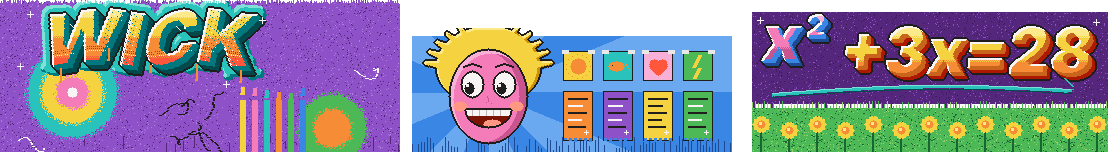
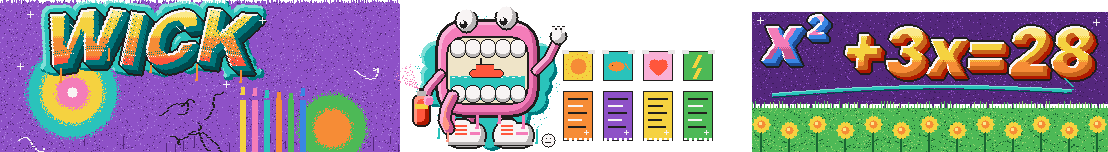
Replace the Hackney Wick face mural with the Gob
An original character painted straight onto the brick in place of the
face on the blue panel: a big pink grinning gob on legs, with bulging
eyes, a lolling tongue, white high-tops, a waving glove and a spray can
mid-spray, on a teal splash. Inside its mouth, between the teeth, a tiny
canal with a narrowboat. The paste-up posters stay beside it.

The old blue panel now only draws while the image is loading, and the
mural's description and hotspot match the new piece.

Claude-Session: https://claude.ai/code/session_0125GjHogscKtWgKKYudVCew

diff --git a/game/src/art/scenes.ts b/game/src/art/scenes.ts
@@ -269,9 +269,13 @@ export const scenes: Record<string, (g: Kit, v: Vis) => void> = {
     for (let k = 0; k < 6; k++) R(120 + k * 6, 200, 3, 26, ['yel', 'pink', 'teal', 'org', 'grn', 'blu'][k]);
     const piece = (s: string, x: number, y: number, k: number, fill: string, sh: string) => { T(s, x + 4, y + 4, sh, k); ([[-2, 0], [2, 0], [0, -2], [0, 2]] as [number, number][]).forEach(([dx, dy]) => T(s, x + dx, y + dy, 'ink', k)); T(s, x, y, fill, k); };
     piece('WICK', 30, 158, 5, 'yel', 'teal7'); for (let i = 0; i < 16; i++) px(32 + i * 5, 160, 'bg');
-    R(206, 168, 160, 58, 'blu'); for (let x = 206; x < 366; x += 3) if (rnd() > .3) R(x, 226, 1, -(rnd() * 8), 'blu8');
+    // The high-detail mural is painted straight onto the brick, so the old blue panel only
+    // draws without it (the random calls still run, so the rest of the scene stays put).
+    const old = !loaded(murals);
+    if (old) R(206, 168, 160, 58, 'blu');
+    for (let x = 206; x < 366; x += 3) if (rnd() > .3) { const h = -(rnd() * 8); if (old) R(x, 226, 1, h, 'blu8'); }
     const face = () => { E(244, 196, 18, 22, 'pink'); R(234, 190, 6, 4, 'ink'); R(250, 190, 6, 4, 'ink'); R(236, 191, 2, 2, 'bg'); R(252, 191, 2, 2, 'bg'); R(238, 206, 14, 3, 'a700'); R(226, 172, 36, 6, 'yel'); R(230, 166, 28, 6, 'yel'); };
-    for (let k = 0; k < 4; k++) { R(282 + k * 20, 176, 14, 14, ['grn', 'yel', 'teal', 'pink'][k]); R(282 + k * 20, 196, 14, 24, ['org', 'pur', 'yel', 'grn'][k]); }
+    if (old) for (let k = 0; k < 4; k++) { R(282 + k * 20, 176, 14, 14, ['grn', 'yel', 'teal', 'pink'][k]); R(282 + k * 20, 196, 14, 24, ['org', 'pur', 'yel', 'grn'][k]); }
     // Jasper's tag: x² + 3x = 28 (roots −7 and 4 open his padlock)
     R(376, 156, 178, 46, 'pur8'); for (let x = 376; x < 554; x += 4) if (rnd() > .4) R(x, 202, 1, rnd() * 10, 'pur8');
     piece('X', 386, 168, 5, 'pink', 'blu'); piece('2', 406, 162, 3, 'pink', 'blu'); piece('+3X=28', 420, 168, 5, 'yel', 'org');

diff --git a/game/src/content/scenes/hackneywick.ts b/game/src/content/scenes/hackneywick.ts
@@ -100,7 +100,7 @@ export const hackneywick: SceneDef = {
     { id: 'orbit', name: 'the Orbit', rect: [282, 22, 40, 120], walkTo: null, look: 'The ArcelorMittal Orbit: a big red tangle with a slide down the middle.' },
     { id: 'wick', name: 'WICK piece', rect: [16, 154, 122, 38], walkTo: null, look: 'A huge yellow WICK. Proper graffiti.' },
     { id: 'tag', name: 'Jasper’s tag', rect: [376, 156, 178, 46], walkTo: null, look: async sc => { await sc.me('A big pink tag: x² + 3x = 28.', 'Somebody really wanted that to look edgy.'); sc.note('tag'); } },
-    { id: 'mural', name: 'mural', rect: [206, 166, 160, 60], walkTo: null, look: 'A pink face with yellow hair, beaming at the canal. It looks happier than anyone on the towpath.' },
+    { id: 'mural', name: 'mural', rect: [206, 156, 76, 70], walkTo: null, look: 'A huge pink grinning gob on legs, in big white trainers, spraying paint everywhere. There’s a tiny canal boat sailing about inside its mouth.' },
     { id: 'bar', name: 'canalside bar', rect: [556, 152, 84, 50], walkTo: 600, look: 'Jasper’s bar. Everything comes in a schooner, and there’s a basket of very expensive bread.',
       verbs: { 'Pick up': async sc => {
         if (sc.is('chalkTaken')) return sc.me('I’ve already pinched a label. One crime per bar.');

diff --git a/game/art-src/graffiti.py b/game/art-src/graffiti.py
@@ -3,7 +3,7 @@
 Run `python3 art-src/graffiti.py` from game/ to rebuild src/art/img/wick-murals.png.
 
 One still image, at 2 image pixels per scene pixel, covering the walls from
-scene (0, 150) to (554, 226): the WICK piece, the face mural with its
+scene (0, 150) to (554, 226): the WICK piece, the Gob mural with its
 paste-up posters, and Jasper's tag. Jasper's tag is a puzzle clue, so it must
 always read clearly as x² + 3x = 28.
 """
@@ -201,46 +201,115 @@ for x, y in [(70, 24), (128, 22), (176, 26), (222, 30)]:              # glints o
     for k in range(5):
         px(x + k, y + k, 'n100')
 
-# ─────────────────────────── B. the face mural and paste-ups (scene x 206–366)
+# ─────────────────────────── B. the Gob mural and paste-ups (scene x 206–366)
+# An original character, painted straight onto the brick: a big pink grinning gob on
+# legs, in white high-tops, with a spray can. Inside its mouth: a little canal and boat.
 B0 = 412
-mural = np.zeros((H, W), bool); mural[36:, B0:B0 + 320] = True
 yy, xx = np.mgrid[0:H, 0:W]
-ang = np.arctan2(yy - 92, xx - 488)
-fill(mural & ((ang * 8 / math.pi) % 2 < 1), 'blu'); fill(mural & ((ang * 8 / math.pi) % 2 >= 1), 'blu3')
-for x in range(B0, B0 + 320, 3):                                     # darker paint pooled at the bottom
-    if rng.random() < 0.7:
-        rect(x, 152 - rng.randint(2, 16), 1, 16, 'blu8')
-# wild yellow hair, flaming up off the top of the wall
-hair = disc_mask(488, 66, 52, 40)
-for k in range(13):
-    a = math.pi * (1.05 + k / 12 * 0.9)
-    tx, ty = 488 + math.cos(a) * 66, 70 + math.sin(a) * 50
-    for j in range(24):
-        q = j / 24
-        cx, cy = 488 + (tx - 488) * q, 70 + (ty - 70) * q
-        hair |= disc_mask(cx, cy, 9 * (1 - q) + 1.5)
-hair &= yy >= 28
-fill(dilate(hair, 2) & (yy >= 28), 'ink'); fill(hair, 'yel')
-fill(hair & ~shift(hair, -3, 0), 'yel7'); fill(hair & ~shift(hair, 2, 2), 'yel3')
-# the face
-face = disc_mask(488, 96, 38, 46)
-fill(dilate(face, 2), 'ink'); fill(face, 'pink')
-fill(face & ~shift(face, -7, 0), 'pink7'); fill(face & ~shift(face, 3, 3), 'pink3')
-for ex in (472, 504):                                                # big eyes, glancing down at the canal
-    e = disc_mask(ex, 84, 10, 12)
-    fill(dilate(e, 2), 'ink'); fill(e, 'n100')
-    fill(disc_mask(ex - 3, 88, 5, 6), 'ink'); fill(disc_mask(ex - 5, 85, 1.6), 'n100')
-    for k in range(-9, 10):                                          # brows
-        px(ex + k, 66 - (9 - abs(k)) * 0.35, 'ink'); px(ex + k, 67 - (9 - abs(k)) * 0.35, 'ink')
-for cx in (460, 516):
-    fill(disc_mask(cx, 106, 7, 5), 'a400')
-for k in range(6):
-    px(487 + k * 0.3, 96 + k, 'pink7'); px(486, 102, 'pink7'); px(491, 103, 'pink7')
-mouth = disc_mask(488, 110, 22, 16) & (yy >= 110)
-fill(dilate(mouth, 2) & (yy >= 108), 'ink'); fill(mouth, 'a800')
-fill(mouth & (yy < 116), 'n100'); fill(mouth & disc_mask(492, 124, 9, 5), 'a400')
-for x in range(472, 506, 7):
-    rect(x, 110, 1, 6, 'n400')
+
+
+def rrect(x0, y0, x1, y1, r):
+    """Rounded rectangle mask."""
+    m = (xx >= x0) & (xx <= x1) & (yy >= y0) & (yy <= y1)
+    for cx, cy in ((x0 + r, y0 + r), (x1 - r, y0 + r), (x0 + r, y1 - r), (x1 - r, y1 - r)):
+        corner = ((xx < x0 + r) if cx == x0 + r else (xx > x1 - r)) & ((yy < y0 + r) if cy == y0 + r else (yy > y1 - r))
+        m &= ~corner | (((xx - cx) ** 2 + (yy - cy) ** 2) <= r * r)
+    return m
+
+
+def limb(points, r):
+    m = np.zeros((H, W), bool)
+    for (x0, y0), (x1, y1) in zip(points, points[1:]):
+        n = int(max(abs(x1 - x0), abs(y1 - y0))) + 1
+        for k in range(n + 1):
+            m |= disc_mask(x0 + (x1 - x0) * k / n, y0 + (y1 - y0) * k / n, r)
+    return m
+
+
+def inked(m, c, light=None, dark=None, w=2):
+    """Fill with a cartoon outline, a lit top-left edge and a shaded bottom-right."""
+    fill(dilate(m, w) & (yy >= 12), 'ink'); fill(m, c)
+    if dark:
+        fill(m & ~shift(m, -4, -3), dark)
+    if light:
+        fill(m & ~shift(m, 3, 3), light)
+
+
+# a teal splash behind it
+splash = np.zeros((H, W), bool)
+srng = random.Random(3)
+for _ in range(46):
+    a, d = srng.uniform(0, 2 * math.pi), srng.random() ** 0.6
+    splash |= disc_mask(486 + math.cos(a) * d * 62, 82 + math.sin(a) * d * 56, srng.uniform(8, 18))
+splash &= (yy >= 14)
+fill(splash, 'teal'); fill(splash & ~shift(splash, 3, 3), 'teal3'); fill(splash & ~shift(splash, -3, -3), 'teal7')
+for _ in range(220):
+    a, d = srng.uniform(0, 2 * math.pi), srng.uniform(58, 74)
+    px(486 + math.cos(a) * d, 82 + math.sin(a) * d * 0.9, 'teal')
+for x in (438, 452, 520, 536):
+    drip(x, 128 + srng.randint(-6, 6), srng.randint(6, 14), 'teal', 2)
+
+# legs and big white high-tops
+inked(limb([(470, 108), (468, 128)], 5), 'pink', 'pink3', 'pink7')
+inked(limb([(504, 108), (508, 128)], 5), 'pink', 'pink3', 'pink7')
+for x0, x1 in ((448, 484), (494, 532)):
+    shoe = rrect(x0, 124, x1, 146, 8) | rrect(x0 + 4, 120, x0 + 22, 134, 4)
+    inked(shoe, 'n100', None, 'n400')
+    rect(x0, 142, x1 - x0 + 1, 4, 'n400'); rect(x0, 145, x1 - x0 + 1, 1, 'ink')
+    for k in range(3):
+        rect(x0 + 7, 125 + k * 4, 12, 2, 'a500')                       # red laces
+    rect(x0 + 22, 132, x1 - x0 - 26, 3, 'pink')                         # a pink stripe
+
+# the gob itself
+body = rrect(438, 22, 536, 114, 24)
+inked(body, 'pink', 'pink3', 'pink7', 3)
+for x in (452, 476, 498, 522):                                         # paint dripping off the bottom
+    drip(x, 115, srng.randint(5, 12), 'pink', 3)
+mouth = rrect(448, 38, 526, 102, 14)
+fill(dilate(mouth, 2), 'ink'); fill(mouth, '#efe4c8')
+# a little canal inside the mouth
+rect(450, 76, 75, 24, 'teal'); 
+for x in range(452, 524, 6):
+    rect(x, 76 + (x // 6) % 2, 3, 1, 'n100')
+boat = rrect(470, 70, 502, 76, 2)
+fill(dilate(boat, 1), 'ink'); fill(boat, 'a500'); rect(476, 64, 18, 6, 'a500'); rect(476, 64, 18, 1, 'ink'); rect(480, 58, 2, 6, 'ink')
+for k in range(3):
+    px(482 + k, 54 - k * 2, 'n400')                                     # chimney smoke
+# teeth, top and bottom
+for i in range(5):
+    x = 451 + i * 15
+    for y0, y1 in ((40, 56), (86, 101)):
+        tooth = rrect(x, y0, x + 13, y1, 4)
+        fill(dilate(tooth, 1), 'ink'); fill(tooth, 'n100')
+        fill(tooth & ~shift(tooth, 0, -3), 'n400')
+# bulging eyes on top, glancing down at the real canal
+for ex, ey in ((466, 20), (506, 17)):
+    e = disc_mask(ex, ey, 10, 11)
+    inked(e, 'n100', None, 'n400')
+    fill(disc_mask(ex - 3, ey + 4, 4), 'ink'); fill(disc_mask(ex - 4, ey + 2, 1.5), 'n100')
+# a long tongue lolling out of the corner
+tongue = limb([(452, 96), (446, 108), (444, 120), (448, 128)], 5)
+inked(tongue, 'a400', 'pink3', 'pink7')
+drip(447, 132, 8, 'a400', 2)
+# arms: one waving, one holding a spray can and spraying
+inked(limb([(536, 70), (548, 58), (556, 42)], 4), 'pink', 'pink3', 'pink7')
+glove = disc_mask(558, 36, 7)
+inked(glove, 'n100', None, 'n400')
+for k in range(3):
+    rect(552 + k * 5, 27, 3, 6, 'n100'); rect(552 + k * 5, 26, 3, 1, 'ink')
+inked(limb([(440, 74), (428, 88), (424, 100)], 4), 'pink', 'pink3', 'pink7')
+can = rrect(414, 96, 428, 124, 3)
+inked(can, 'a500', 'a400', 'a700')
+rect(415, 104, 13, 5, 'yel'); rect(417, 91, 9, 5, 'n400'); rect(419, 88, 4, 3, 'ink')
+fill(disc_mask(428, 100, 5), 'pink'); fill(disc_mask(428, 100, 5) & ~shift(disc_mask(428, 100, 5), 2, 2), 'pink3')
+for _ in range(90):                                                     # the spray, misting up and left
+    d = srng.random()
+    a = srng.uniform(-0.5, 0.5) + math.pi * 1.25
+    px(418 + math.cos(a) * d * 26, 88 + math.sin(a) * d * 26, 'pink' if srng.random() < 0.7 else 'pink3')
+# a little stencil smiley signature
+sig = disc_mask(548, 140, 6)
+fill(dilate(sig, 1), 'ink'); fill(sig, 'n100'); px(546, 138, 'ink'); px(550, 138, 'ink'); rect(545, 142, 6, 1, 'ink')
+
 # paste-up posters, tape and torn corners
 posters = [
     ('yel', lambda x, y: (fill(disc_mask(x + 14, y + 14, 8), 'org'), [px(x + 14 + math.cos(a) * 12, y + 14 + math.sin(a) * 12, 'org') for a in np.linspace(0, 6.28, 16)])),
@@ -256,7 +325,7 @@ for k, (bgc, art) in enumerate(posters):
     for j in range(5):
         rect(x + 4, 98 + j * 7, 20 - (j * 5) % 9, 2, ['ink', 'n100'][j % 2] if k != 2 else 'ink')
     for j in range(6):                                              # torn bottom edge
-        rect(x + j * 5, 138, 3, 2 + (j * 7 + k) % 3, 'blu')
+        img[138:140 + (j * 7 + k) % 3, x + j * 5:x + j * 5 + 3] = 0
     sparkle(x + 22, 132, 'n100', 2)
 
 # ─────────────────────────── C. Jasper's tag (scene x 376–554)
